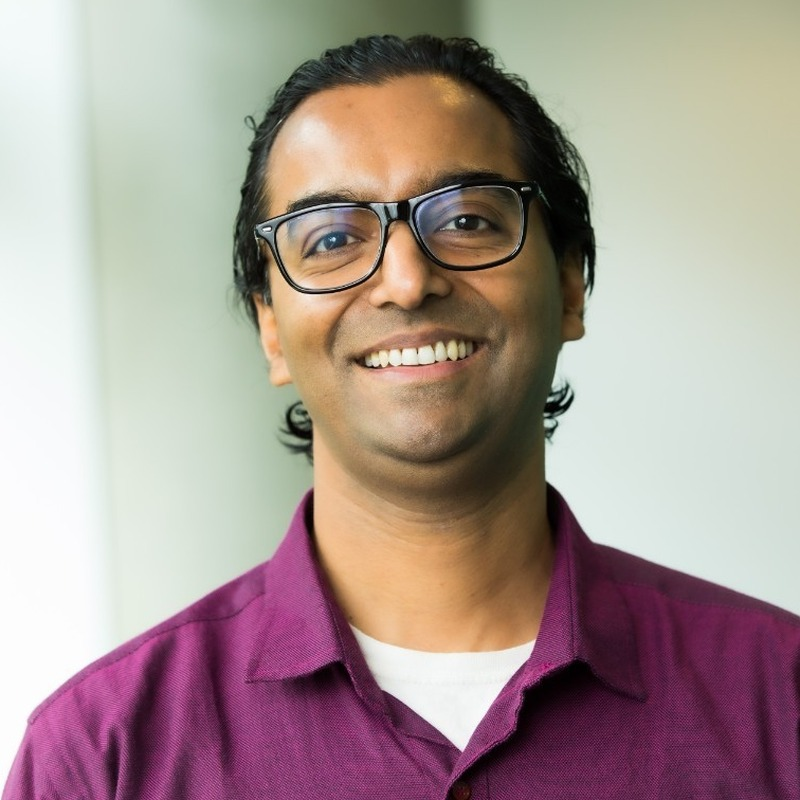
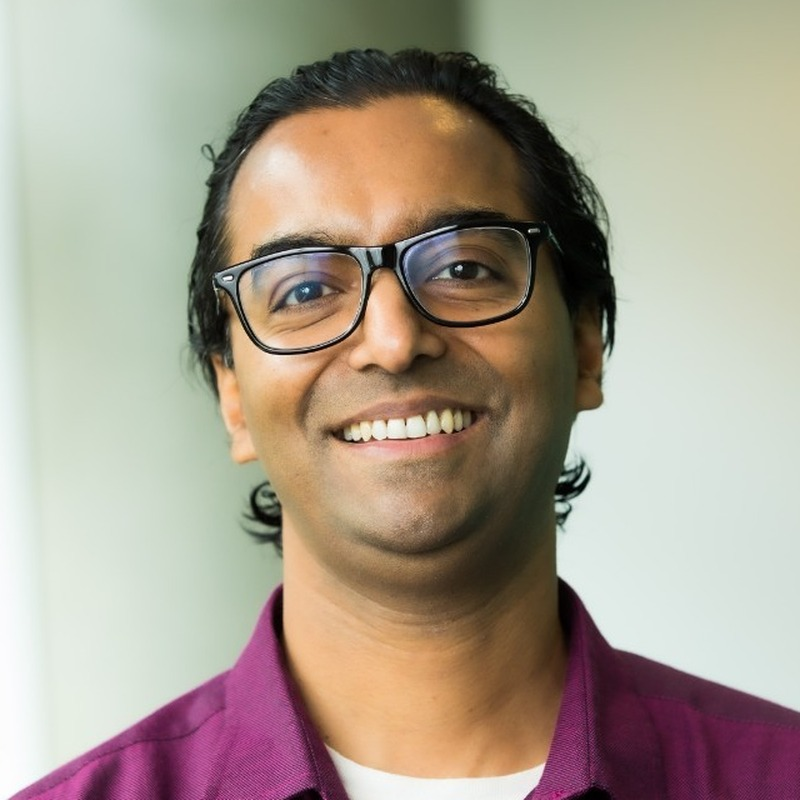
Tighten profile photo crop

diff --git a/styles.css b/styles.css
@@ -86,15 +86,15 @@ nav a:hover {
 
 .intro {
   display: grid;
-  grid-template-columns: 168px minmax(0, 1fr);
+  grid-template-columns: 184px minmax(0, 1fr);
   gap: 30px;
   align-items: start;
   margin-top: 4px;
 }
 
 .portrait {
-  width: 168px;
-  height: 168px;
+  width: 184px;
+  height: 184px;
   object-fit: cover;
   border-radius: 2px;
 }